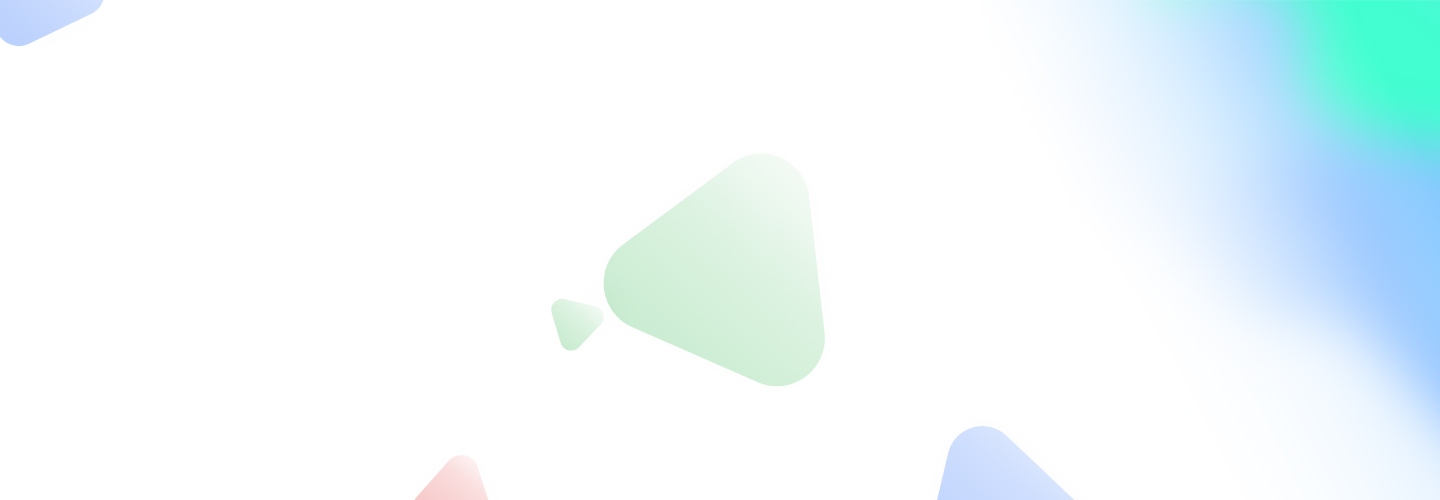
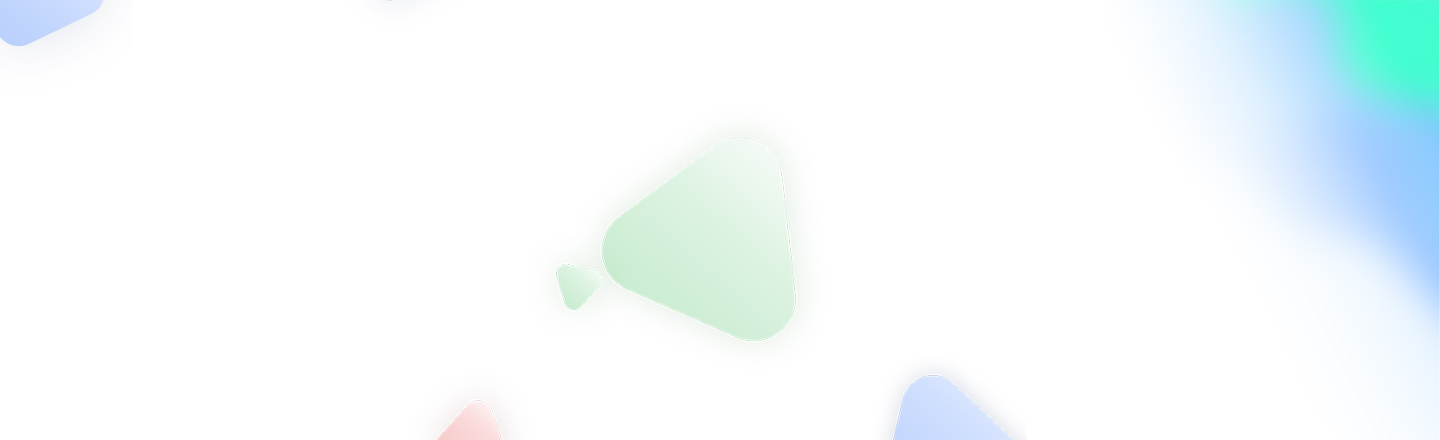
our application UI done

diff --git a/frontend/commission_app/src/ui/pages/welcome/WelcomePage.tsx b/frontend/commission_app/src/ui/pages/welcome/WelcomePage.tsx
@@ -13,6 +13,10 @@ import LogoImage from "../../../resources/assets/logo.png";
 import LaptopImage from "../../../resources/assets/laptop.png";
 import { ReactComponent as CallIcon } from "../../../resources/assets/phone-fill.svg";
 import CustomBox from "../../components/box/CustomBox";
+import CommissionIcon from "../../../resources/assets/commission.svg";
+import OweIcon from "../../../resources/assets/OWE.svg";
+import ContractorIcon from "../../../resources/assets/contractor.svg";
+import pandoIcon from "../../../resources/assets/pando.svg";
 
 export const WelcomePage = () => {
   return (
@@ -49,13 +53,33 @@ export const WelcomePage = () => {
       </div>
       <div className="welcomeApplicationView">
         <div className="welcomeInnerApplicationView">
-          <h1 className="welcome-our-text">Our Applications</h1>
+          <span className="welcome-our-text">Our Applications</span>
 
           <div className="welcomeBoxView">
-            <CustomBox />
-            <CustomBox />
-            <CustomBox />
-            <CustomBox />
+            <CustomBox
+              icon={CommissionIcon}
+              title="Commission App"
+              description="More than that, you can have any amount of layers attached "
+              onClick={() => {}}
+            />
+            <CustomBox
+              icon={OweIcon}
+              title="OWE ChatBot"
+              description="More than that, you can have any amount of layers attached "
+              onClick={() => {}}
+            />
+            <CustomBox
+              icon={ContractorIcon}
+              title="Sub Contractor Hub"
+              description="More than that, you can have any amount of layers attached "
+              onClick={() => {}}
+            />
+            <CustomBox
+              icon={pandoIcon}
+              title="Pando"
+              description="More than that, you can have any amount of layers attached "
+              onClick={() => {}}
+            />
           </div>
         </div>
       </div>

diff --git a/frontend/commission_app/src/ui/components/box/CustomBox.tsx b/frontend/commission_app/src/ui/components/box/CustomBox.tsx
@@ -1,14 +1,29 @@
-import React from "react";
 import "./CustomBox.css";
+
+interface CustomBoxProps {
+  icon: any;
+  title: string;
+  description: string;
+  onClick: any;
+}
 /**
  * Custom box for image and text
  */
-const CustomBox = () => {
+const CustomBox = (props: CustomBoxProps) => {
+  const { icon, title, description, onClick } = props;
   return (
     <div className="boxContainer">
+      <div className="boxUpperView">
+        <img src={icon} alt={"icon"} />
+      </div>
 
+      <div className="boxBelowView">
+        <span className="boxCommissionText">{title}</span>
+        <br />
+        <span className="boxCommissionSubText">{description}</span>
+      </div>
     </div>
-  )
+  );
 };
 
 export default CustomBox;

diff --git a/frontend/commission_app/src/ui/components/box/CustomBox.css b/frontend/commission_app/src/ui/components/box/CustomBox.css
@@ -1,8 +1,39 @@
 .boxContainer {
   width: 272px;
   height: 200px;
-  flex-shrink: 0;
   border-radius: 16px;
   background: #fff;
   box-shadow: 0px 5px 10px 0px rgba(0, 0, 0, 0.1);
+  display: flex;
+  flex-direction: column;
+}
+
+.boxUpperView {
+  height: 100px;
+  align-items: center;
+  justify-content: center;
+  display: flex;
+}
+
+.boxBelowView {
+  height: 100px;
+  padding-left: 40px;
+  padding-right: 40px;
+}
+
+.boxCommissionText {
+  color: #222;
+  font-family: Poppins;
+  font-size: 20px;
+  font-style: normal;
+  font-weight: 600;
+}
+
+.boxCommissionSubText {
+  color: #222;
+  text-align: center;
+  font-family: Poppins;
+  font-size: 12px;
+  font-style: normal;
+  font-weight: 400;
 }

diff --git a/frontend/commission_app/src/ui/pages/welcome/WelcomePage.css b/frontend/commission_app/src/ui/pages/welcome/WelcomePage.css
@@ -4,7 +4,7 @@
 }
 
 .welcomeBannerView {
-  height: 500px;
+  height: 440px;
   background: url("../../../resources/assets/banner.jpg");
   background-repeat: no-repeat;
   background-size: cover;
@@ -117,7 +117,6 @@
   margin: 0px 116px;
   display: flex;
   flex-direction: column;
-  background-color: green;
   flex: 1;
 }
 
@@ -134,4 +133,5 @@
 .welcomeBoxView {
   display: flex;
   justify-content: space-around;
+  margin-top: 10px;
 }
